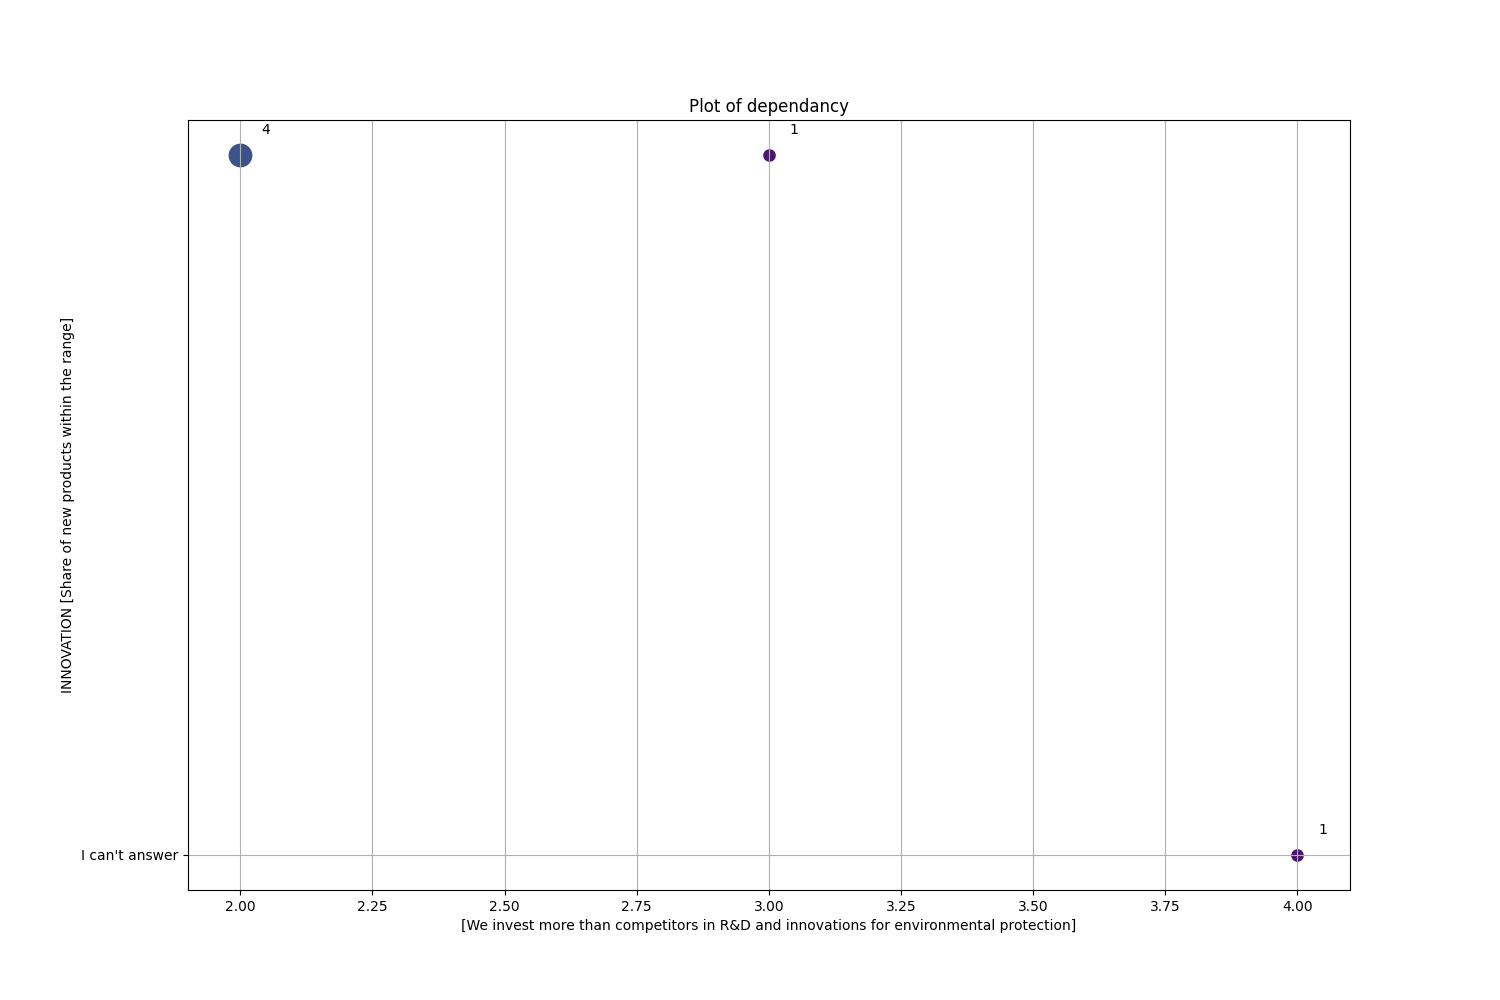
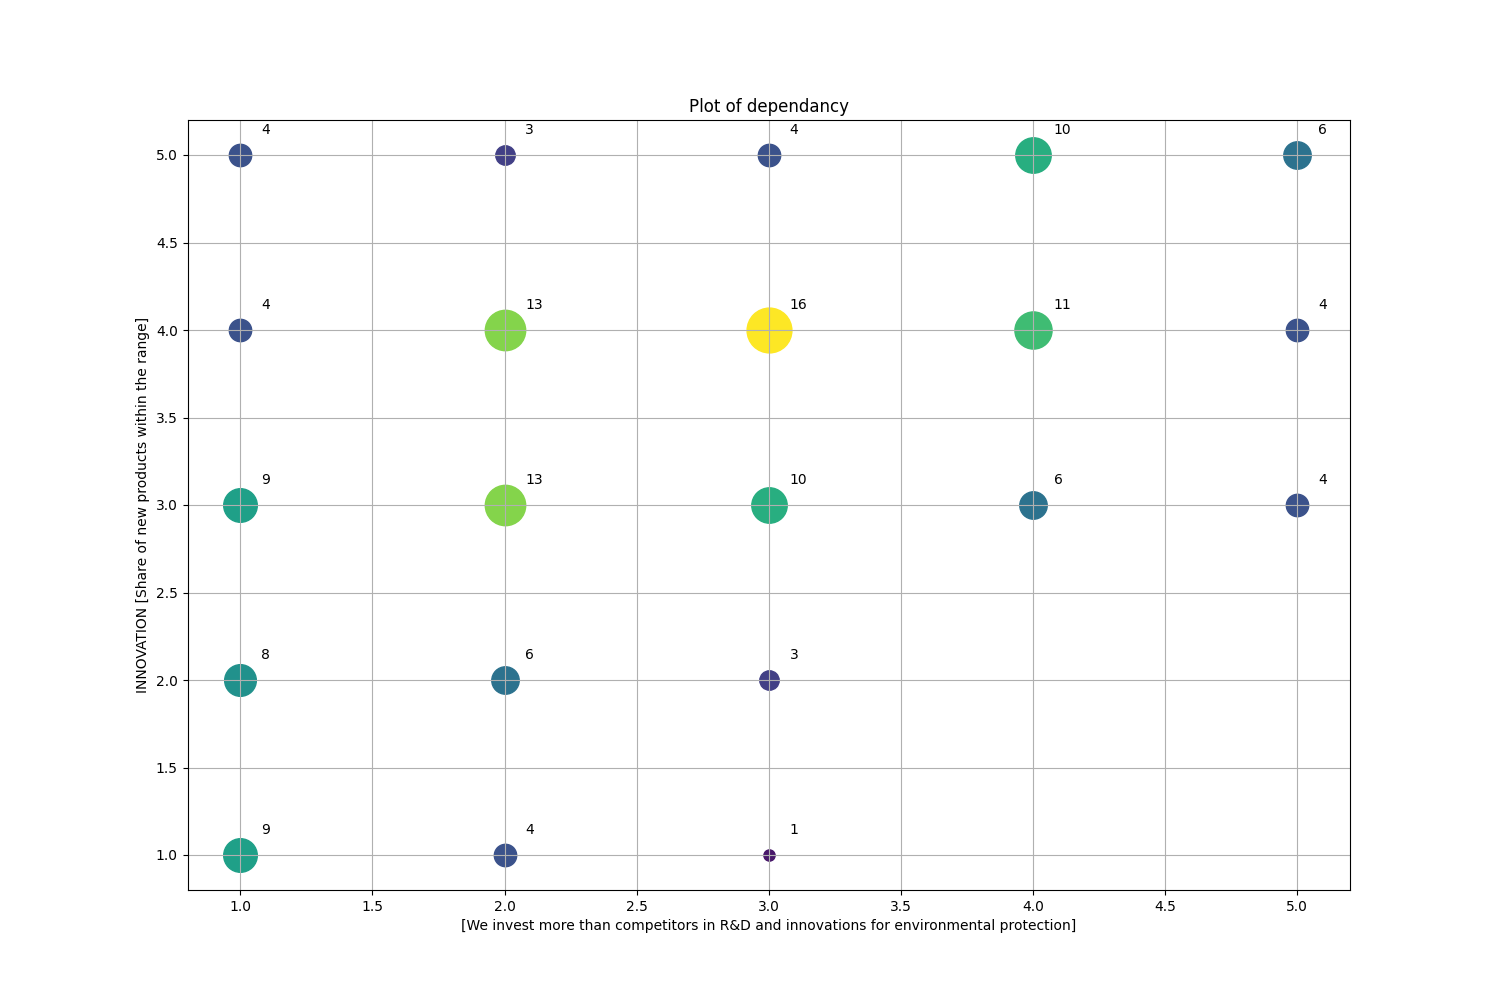
results

diff --git a/data_analysis.py b/data_analysis.py
@@ -50,7 +50,8 @@ def data_preparation():
                     cell.value = values_to_replace[cell.value]
                 # Якщо в непорожньому стовпці є порожня клітинка, вписати в неї "I can't answer"
                 elif cell.value is None and any(cell1.value is not None for cell1 in column):
-                    cell.value = "I can't answer"
+                    # cell.value = "I can't answer"
+                    cell.value = 3
     workbook.save(PREPARED_DATA_FILE)
     workbook.close()
 
@@ -320,8 +321,8 @@ def correlation_calculation():
                             file.write(f"t-stat for differences: {t_statistic}\n")
                             file.write(f"p-value for t-test: {p_value_ttest}\n\n")
 
-#data_preparation()
+data_preparation()
 #histogram_creation()
-# construction_of_graphs()
+construction_of_graphs()
 correlation_calculation()
 
